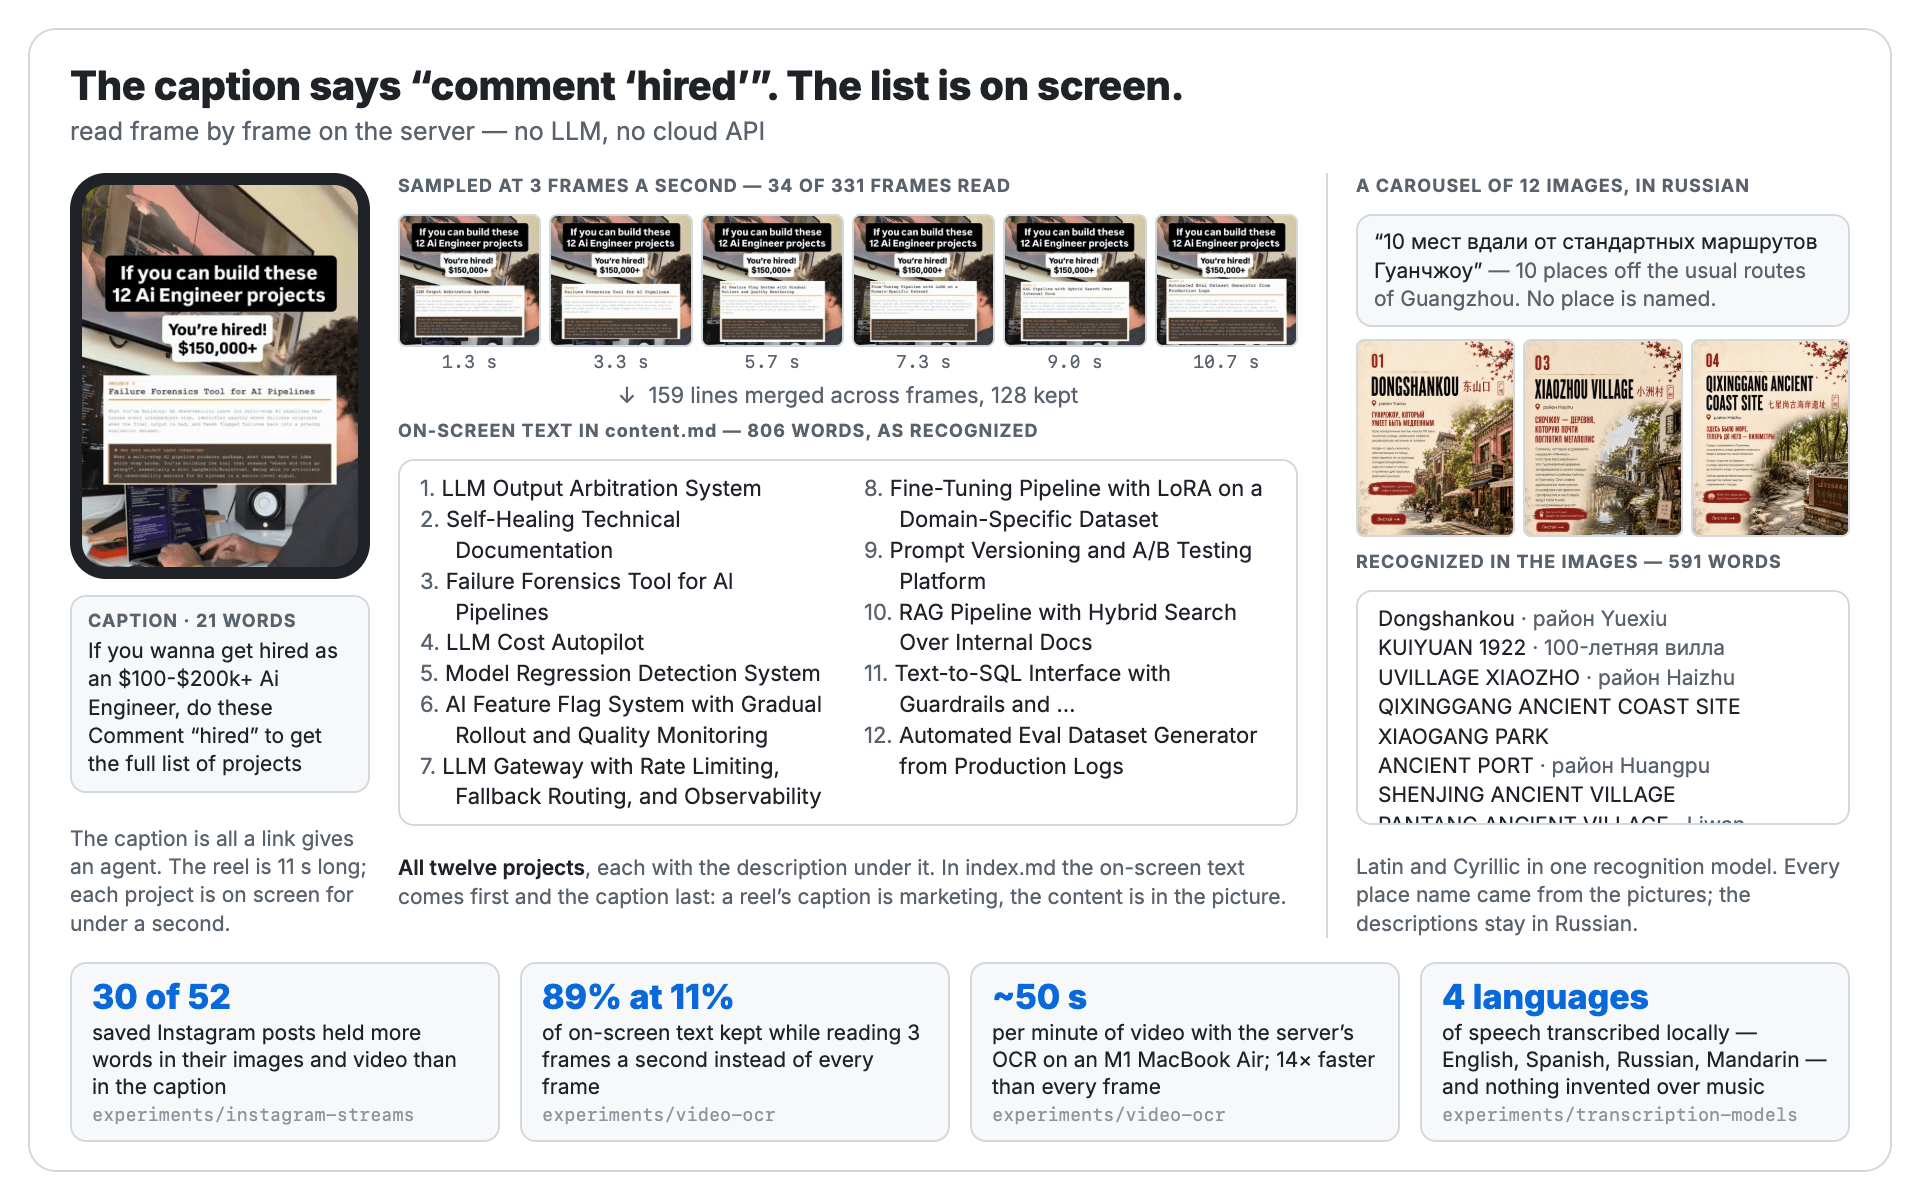
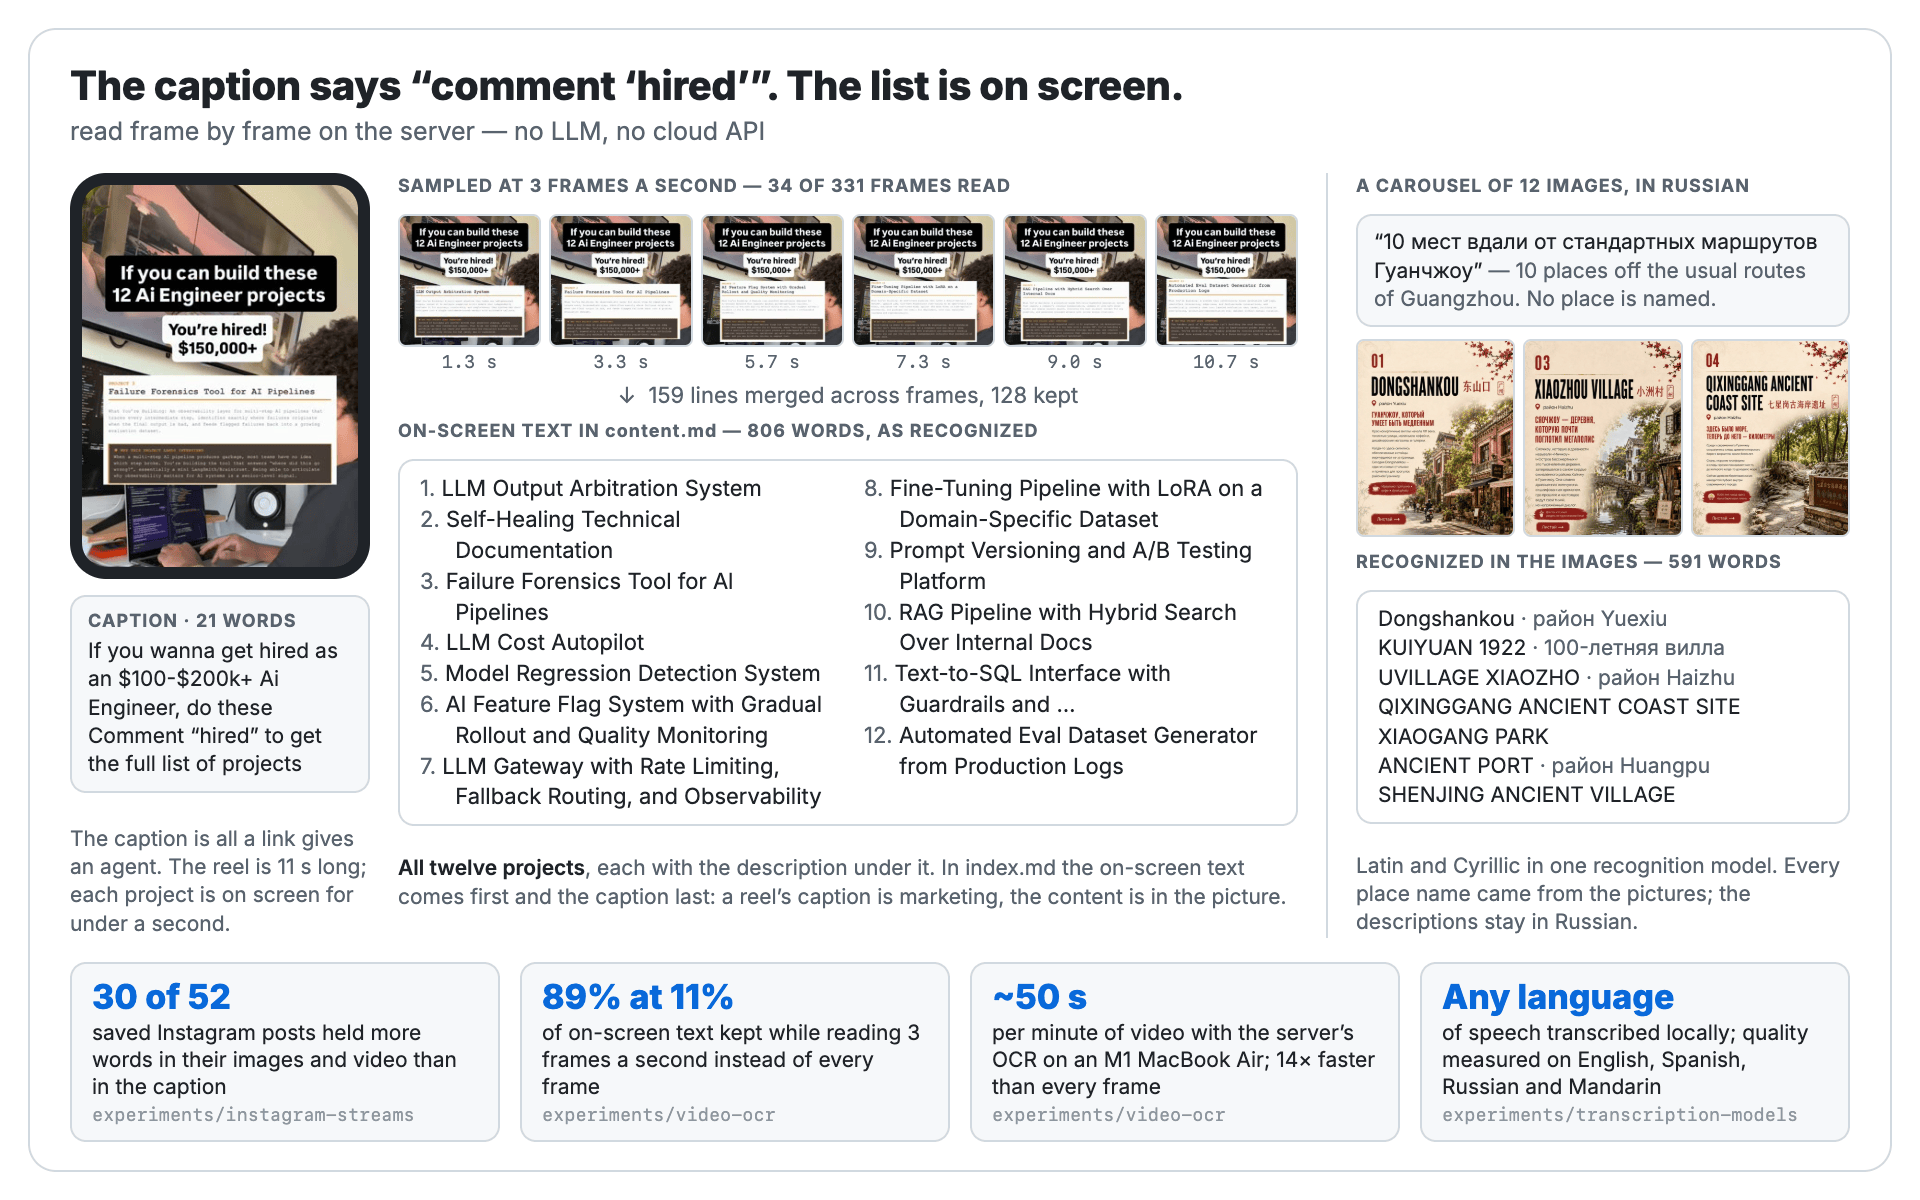
Say speech is transcribed in any language and on-screen text in two scripts
- README and the video picture now separate the two: speech is transcribed in any language, detected automatically, with quality measured on English, Spanish, Russian and Mandarin; on-screen text is read in Latin and Cyrillic scripts, with Chinese one setting away.
- The video picture drops a clipped line from its list of place names.

Changed region(s): [[0.75, 0.8017, 0.9375, 0.925], [0.7188, 0.6783, 0.9062, 0.7708], [0.9062, 0.7092, 0.9375, 0.74]]

diff --git a/assets/pictures/video-text.html b/assets/pictures/video-text.html
@@ -76,8 +76,7 @@ UVILLAGE XIAOZHO <span class="ru">· район Haizhu</span>
 QIXINGGANG ANCIENT COAST SITE
 XIAOGANG PARK
 ANCIENT PORT <span class="ru">· район Huangpu</span>
-SHENJING ANCIENT VILLAGE
-PANTANG ANCIENT VILLAGE <span class="ru">· Liwan</span></div>
+SHENJING ANCIENT VILLAGE</div>
       <div class="note">Latin and Cyrillic in one recognition model. Every place name came from the pictures; the descriptions stay in Russian.</div>
     </div>
   </div>
@@ -86,7 +85,7 @@ PANTANG ANCIENT VILLAGE <span class="ru">· Liwan</span></div>
     <div class="stat"><b>30 of 52</b><span>saved Instagram posts held more words in their images and video than in the caption</span><i>experiments/instagram-streams</i></div>
     <div class="stat"><b>89% at 11%</b><span>of on-screen text kept while reading 3 frames a second instead of every frame</span><i>experiments/video-ocr</i></div>
     <div class="stat"><b>~50 s</b><span>per minute of video with the server’s OCR on an M1 MacBook Air; 14× faster than every frame</span><i>experiments/video-ocr</i></div>
-    <div class="stat"><b>4 languages</b><span>of speech transcribed locally — English, Spanish, Russian, Mandarin — and nothing invented over music</span><i>experiments/transcription-models</i></div>
+    <div class="stat"><b>Any language</b><span>of speech transcribed locally; quality measured on English, Spanish, Russian and Mandarin</span><i>experiments/transcription-models</i></div>
   </div>
 </div>
 </body>

diff --git a/README.md b/README.md
@@ -2,14 +2,14 @@
 
 A self-hosted pipeline between what you come across during the day and the coding agent that files it. Saving something takes one share from the phone or one shortcut in the browser. By the time you sit down to review, each item has been cleaned, its links followed to where they lead, the article, paper or video behind it retrieved as Markdown, and the text inside its images and video read. The agent works from local files instead of fetching, guessing and searching.
 
-It is *context engineering* for a personal inbox: deciding what reaches the agent, in what shape, and measuring what that saves. Every step runs on your own server, with no LLM and no hosted AI service, and every measurement on this page comes from an [experiment](experiments/README.md) on real captures.
+It is **context engineering** for a personal inbox: deciding what reaches the agent, in what shape, and measuring what that saves. Every step runs on your own server, with no LLM and no hosted AI service, and every measurement on this page comes from an [experiment](experiments/README.md) on real captures.
 
 ![One item's way through the pipeline: a LinkedIn post is captured from the browser with a selected quote and an intent; the server cleans it, finds and resolves its link, extracts the post and follows the author's comment to the arXiv paper it discusses, then renders index.md; ./sync.sh brings it to the laptop and adds possible neighbours from the user's own notes; the item appears as number 7 in triage.org, and the agent is asked to file item 7.](assets/pictures/overview.png)
 
 ## What it does
 
 - **Capture instead of forgetting.** One share to a Telegram bot from the phone or tablet, one shortcut in Chrome, or one command. It replaces pasting links into a notes file by hand, which on a tablet took many steps and mostly did not happen. [Capturing](#capturing)
-- **Reads the text inside images and video.** On-screen text is recognized frame by frame and speech is transcribed (currently in English, Spanish, Russian and Mandarin). In experimental measurements in 30 of 52 saved Instagram posts, the images and video said more than the caption. [More](#text-inside-images-and-video)
+- **Reads the text inside images and video.** On-screen text is recognized frame by frame (currently in Latin and Cyrillic scripts). Speech is transcribed in any language, detected automatically; quality was measured on English, Spanish, Russian and Mandarin. In experimental measurements in 30 of 52 saved Instagram posts, the images and video said more than the caption. [More](#text-inside-images-and-video)
 - **Opens the links an agent cannot.** Short links are followed to their destination and given the page's own title (in experiments 192 of 193 LinkedIn short links from old notes now reach the page they point to). Styled letters, emoji bullets and invisible characters are cleaned out; lines in styled letters cost 4.9 times the tokens of plain ones. [More](#links-an-agent-can-open)
 - **Follows a post to what it is about.** When the paper is in the author's comment or a video's description, the paper or repository is retrieved and becomes the item. A post with 43 links arrives as 43 titles, about 600 tokens instead of 107,000. [More](#from-the-post-to-its-source)
 - **Papers in one shape.** arXiv, ACL Anthology, PMLR, OpenReview, CVF, NeurIPS and JMLR papers all become the same Markdown, with the complete abstract up front and the PDF kept.
@@ -51,9 +51,9 @@ Every item is a directory with one `index.md` at its root: what was captured, th
 
 ### Text inside images and video
 
-Short videos and carousels often put the content in the picture and use the caption as an advert, sometimes one that asks for a comment to get the list it is withholding. The server samples three frames a second, recognizes the text in each, merges what repeats across frames, and transcribes the speech; music-only video yields no invented words. In the item's lead the on-screen text and speech come first and the caption last.
+Short videos and carousels often put the content in the picture and use the caption as an advert, sometimes one that asks for a comment to get the list it is withholding. The server samples three frames a second, recognizes the text in each, merges what repeats across frames, and transcribes the speech in whatever language it is in; music-only video yields no invented words. On-screen text is read in Latin and Cyrillic scripts, which covers English, Spanish and Russian; Chinese is one setting away, and other scripts need their own recognition model. In the item's lead the on-screen text and speech come first and the caption last.
 
-![A reel whose 21-word caption says to comment "hired" to get the full list of projects, beside six frames sampled at three a second and the on-screen text recognized from them: all twelve project names, from LLM Output Arbitration System to Automated Eval Dataset Generator from Production Logs. Beside it, a Russian carousel titled "10 places off the usual routes of Guangzhou" whose place names, such as Dongshankou, Kuiyuan 1922 and Shenjing Ancient Village, appear only in the images. Along the bottom: 30 of 52 saved posts held more words in images and video than in the caption; 89% of on-screen text kept at 11% of the frames; about 50 seconds per minute of video on an M1 MacBook Air; speech in four languages.](assets/pictures/video-text.png)
+![A reel whose 21-word caption says to comment "hired" to get the full list of projects, beside six frames sampled at three a second and the on-screen text recognized from them: all twelve project names, from LLM Output Arbitration System to Automated Eval Dataset Generator from Production Logs. Beside it, a Russian carousel titled "10 places off the usual routes of Guangzhou" whose place names, such as Dongshankou, Kuiyuan 1922 and Shenjing Ancient Village, appear only in the images. Along the bottom: 30 of 52 saved posts held more words in images and video than in the caption; 89% of on-screen text kept at 11% of the frames; about 50 seconds per minute of video on an M1 MacBook Air; speech transcribed in any language, measured on four.](assets/pictures/video-text.png)
 
 Reading 3 frames a second instead of every frame keeps 89% of the substantial text for 11% of the work, about 50 seconds per minute of video with the server's engine on an M1 MacBook Air. [`experiments/video-ocr/`](experiments/video-ocr/README.md) has the measurements, [`experiments/transcription-models/`](experiments/transcription-models/README.md) the choice of speech model per machine, and [`experiments/instagram-streams/`](experiments/instagram-streams/README.md) how much of a saved post lives outside its caption. The extractors are described in [`docs/extractors/instagram.md`](docs/extractors/instagram.md) and [`docs/extractors/youtube.md`](docs/extractors/youtube.md).
 
